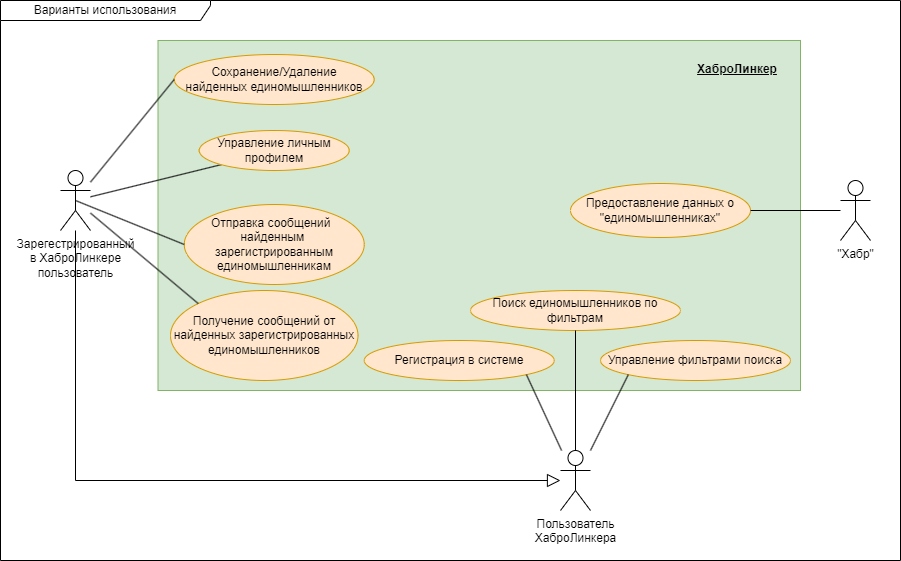
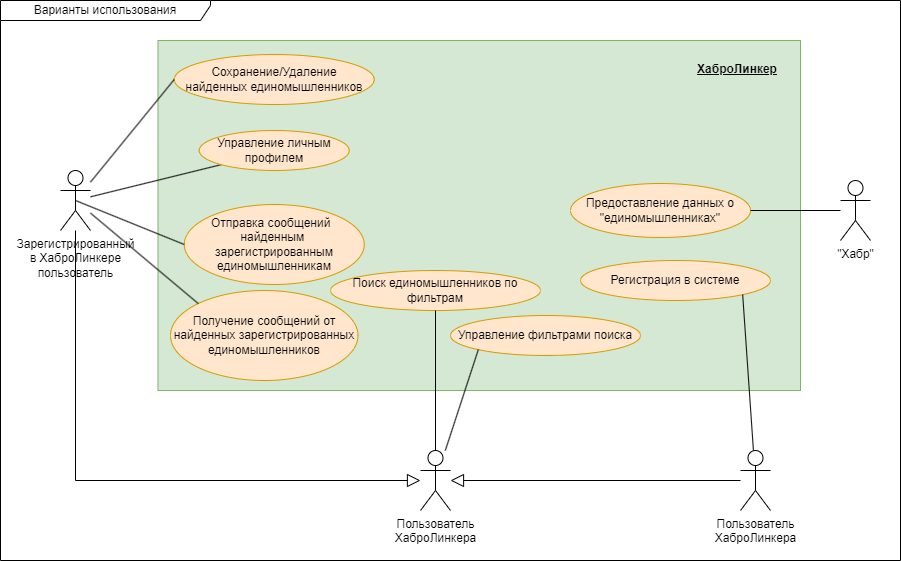
Fixed buisness requirements

diff --git a/docs/business_requirements.md b/docs/business_requirements.md
@@ -6,31 +6,33 @@
 
 С системой взаимодействуют следующие действующие лица:
 - "Хабр" - одноименный крупный в рунете веб-сайт, посвященный IT тематике и содержащий различную информацию о своих пользователях;
-- Пользователь ХаброЛинкера - человек, взаимодействующий с Системой;
-- Зарегестрированный пользователь ХаброЛинкера - Пользователь ХаброЛинкера, который имеет учётную запись в Системе.
+- Пользователь ХаброЛинкера - в целом любой человек, взаимодействующий с Системой;
+- Незарегистрированный пользователь ХаброЛинкера - Пользователь ХаброЛинкера, который не имеет учётную запись в Системе;
+- Зарегистрированный пользователь ХаброЛинкера - Пользователь ХаброЛинкера, который имеет учётную запись в Системе.
 
 ## Варианты использования
 
 Варианты использования - высокоуровневые сценарии, описывающие задачи, которые выполняет система и действующие лица, которые в этих сценариях участвуют.
 
 **"Хабр"**
-- Предоставляет данные о единомышленниках, зарегестрированных на сайте Хабр.
+- Предоставляет данные о единомышленниках, зарегистрированных на сайте Хабр.
 
 **Пользователь ХаброЛинкера**
-- Регистрация в Системе;
-- Управление фильтрами поиска: выбор специализации единомышленников, опыта работы и тд;
-- Поиск единомышленников по выбранным фильтрам.
+- Управление фильтрами поиска (выбор специализации единомышленников, опыта работы и тд) и поиск единомышленников по этим фильтрам.
 
-**Зарегестрированный пользователь ХаброЛинкера**
-- Управление данными личного профиля
-- Управление единомышленниками найденных по определенным фильтрам поиска
-  - Сохранение
-  - Просмотр
-  - Удаление
-- Коммуникация с единомышленниками
-    - Получение сообщений
-    - Просмотр диалога
-    - Отправка сообщений
+**Незарегистрированный пользователь ХаброЛинкера**
+- Регистрация в Системе.
+
+**Зарегистрированный пользователь ХаброЛинкера**
+- Управление данными личного профиля.
+- Управление единомышленниками найденных по определенным фильтрам поиска:
+  - Сохранение;
+  - Просмотр;
+  - Удаление.
+- Коммуникация с единомышленниками:
+    - Получение сообщений;
+    - Просмотр диалога;
+    - Отправка сообщений.
 
 Диаграмма вариантов использования приведены на следующем рисунке.
 
